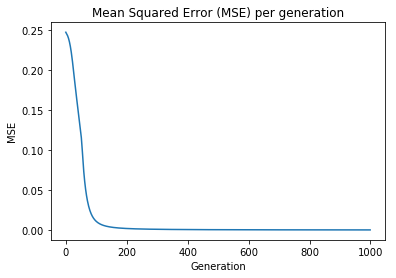
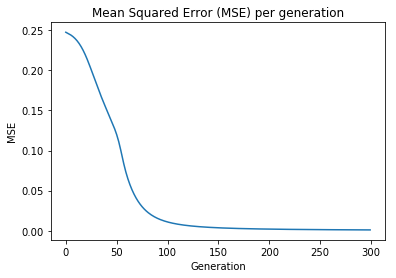
bug fixes, small cosmetic changes and removal of unneeded stuff

diff --git a/XOR/mlp.py b/XOR/mlp.py
@@ -157,17 +157,17 @@ class mlp():
 
     #Showing it working, example_run
     def example_run(self, plot=True):
-        clf.fit(self.X, self.y)
+        self.fit(self.X, self.y)
         print"Results:\n"
         print " X    y    Predicted"
         results = clf.predict(self.X)
         for i in xrange(4):
             print self.X[i],self.y[i], results[:,0][i]
-        print"\nscore: %.3f%%"%(clf.score(self.X,self.y)*100)
+        print"\nscore: %.3f%%"%(self.score(self.X,self.y)*100)
 
         if plot:
             import matplotlib.pyplot as plt
-            plt.plot(clf.error_list)
+            plt.plot(self.error_list)
             plt.title("Mean Squared Error (MSE) per generation")
             plt.xlabel("Generation")
             plt.ylabel("MSE")
@@ -176,5 +176,5 @@ class mlp():
 
 #The example
 if __name__=="__main__":
-    clf = mlp(seed=1, max_iter=1000, hidden_layer_size=4, alpha=5 )
+    clf = mlp(seed=1, max_iter=300, hidden_layer_size=4, alpha=5 )
     clf.example_run()

diff --git a/XOR/README.md b/XOR/README.md
@@ -163,17 +163,17 @@ class mlp():
     
     #Showing it working, example_run
     def example_run(self, plot=True):
-        clf.fit(self.X, self.y)
+        self.fit(self.X, self.y)
         print"Results:\n"
         print " X    y    Predicted"
         results = clf.predict(self.X)
         for i in xrange(4):
             print self.X[i],self.y[i], results[:,0][i]
-        print"\nscore: %.3f%%"%(clf.score(self.X,self.y)*100)
+        print"\nscore: %.3f%%"%(self.score(self.X,self.y)*100)
         
         if plot:
             import matplotlib.pyplot as plt
-            plt.plot(clf.error_list)
+            plt.plot(self.error_list)
             plt.title("Mean Squared Error (MSE) per generation")
             plt.xlabel("Generation")
             plt.ylabel("MSE")
@@ -184,23 +184,23 @@ class mlp():
 
 
 ```python
-clf = mlp(seed=1, max_iter=1000, hidden_layer_size=4, alpha=5 )
+clf = mlp(seed=1, max_iter=300, hidden_layer_size=4, alpha=5 )
 clf.example_run()   
 ```
 
-    Starting MLP at: 2018-04-14 11:11:46.734338
-    Finishing MLP training at: 2018-04-14 11:11:46.796600
-    Final error: 0.000174336001931
-    It took 0:00:00.062262
+    Starting MLP at: 2018-04-15 21:44:18.771945
+    Finishing MLP training at: 2018-04-15 21:44:18.797382
+    Final error: 0.000949241885288
+    It took 0:00:00.025437
     Results:
     
      X    y    Predicted
-    [0 0] 0 0.010673363782
-    [0 1] 1 0.986232037491
-    [1 0] 1 0.988291187729
-    [1 1] 0 0.0159967683876
+    [0 0] 0 0.0248102502396
+    [0 1] 1 0.967929429577
+    [1 0] 1 0.973253685396
+    [1 1] 0 0.037640865398
     
-    score: 99.983%
+    score: 99.906%
 
 
 
